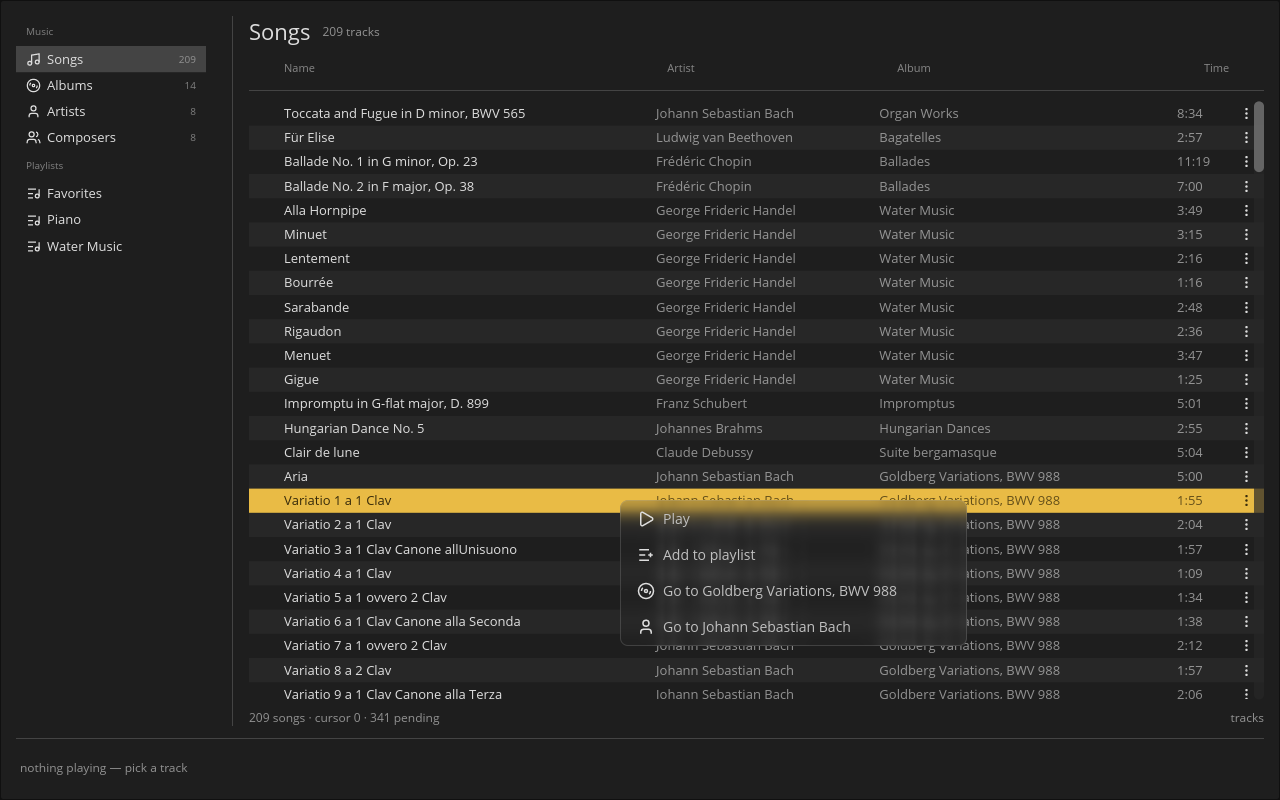
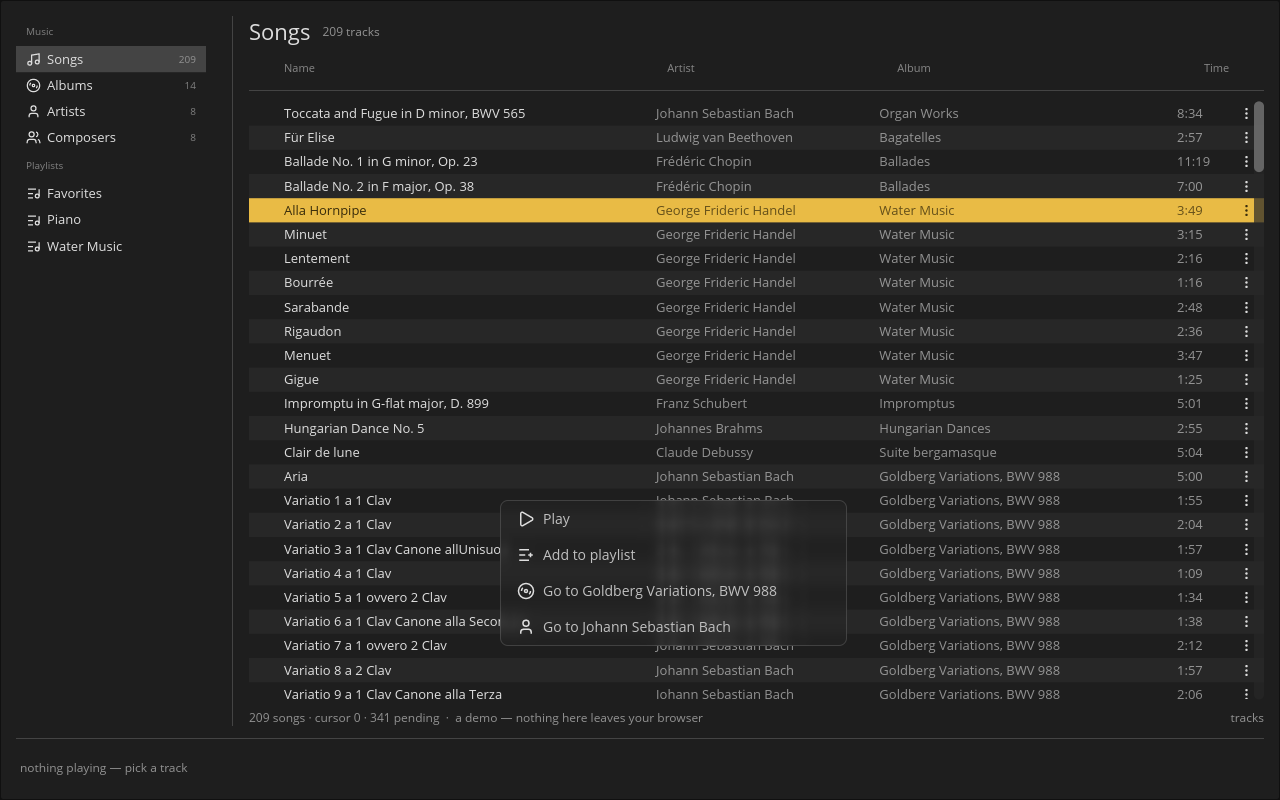
A row carries its own menu, because the cursor could not
Right-clicking a second row while a menu was open showed the first row's
entries. The trees were built from the cursor, and their overlay captures the
pointer outright — so moving to another row never reaches that row's
`on_enter`, and adding an `on_right_press` did not help either, because the
press does not reach it. Nothing pointer-derived can be right while their menu
is up.

So the wrapper moved off the list and onto each row: a row that carries its own
`context_menu` cannot be wrong about which row it is. `row_menu_trees` takes
the item now rather than reading the cursor, `MenuOpened` carries the id, and
`menu_lists_for` says which row the ticks are for so only that row's submenu
fills.

One thing it does not restore: the old menu landed the cursor on the row it was
about, and that is still not possible here for the same reason the bug existed
— the row never sees the event. The highlight can therefore be on one row while
the menu is about another. The menu is right; the highlight lags.

57 tests.

Claude-Session: https://claude.ai/code/session_01XcBd33WHuwVJf6eCw7CpeG

diff --git a/iced/src/main.rs b/iced/src/main.rs
@@ -493,7 +493,7 @@ enum Message {
     PickerAt(usize),
     /// libcosmic's menu just opened: read what the row under the cursor is
     /// already on, so its submenu has ticks.
-    MenuOpened,
+    MenuOpened(Id),
     /// Toggle one of them, from that submenu.
     MenuToggle(harken::Id<harken::tables::Playlist>, Id),
     /// The same, for the row menu.
@@ -1454,6 +1454,8 @@ struct App {
     /// otherwise be two hundred queries for a menu nobody opened, which is
     /// the cost `SUBMENU_DWELL` used to exist to avoid.
     menu_lists: Vec<(harken::Id<harken::tables::Playlist>, String, bool)>,
+    /// …and which row they are for, because every row now carries a menu.
+    menu_lists_for: Option<Id>,
     /// How big the window is, so a menu opened near an edge can open the
     /// other way. Seeded with what `main` asks for and kept in step by
     /// `window::resize_events`.
@@ -1979,6 +1981,7 @@ impl App {
             picker: None,
             menu: None,
             menu_lists: Vec::new(),
+            menu_lists_for: None,
             nav: Nav::Push,
             routed: None,
             cursor: cosmic::iced::Point::ORIGIN,
@@ -3249,12 +3252,11 @@ impl App {
                 }
                 Ok(())
             }
-            Message::MenuOpened => {
-                let at = self.at(Pane::Tracks);
+            Message::MenuOpened(id) => {
                 let Some(peer) = &mut self.peer else {
                     return Task::none();
                 };
-                let Some(item) = peer.rows().get(at).cloned() else {
+                let Some(item) = peer.rows().iter().find(|i| i.id == id).cloned() else {
                     return Task::none();
                 };
                 let mut store = peer.client.store();
@@ -3268,6 +3270,7 @@ impl App {
                     .into_iter()
                     .map(|p| (p.id, p.name, on.contains(&p.id)))
                     .collect();
+                self.menu_lists_for = Some(id);
                 drop(store);
                 Ok(())
             }
@@ -3766,10 +3769,11 @@ impl App {
     /// What their larger text and padding costs over `ENTRY_CHAR`'s estimate.
     const MENU_SLACK: f32 = 56.0;
 
-    fn row_menu_trees(&self) -> Option<(Vec<cosmic::widget::menu::Tree<Message>>, u16)> {
-        let peer = self.peer.as_ref()?;
-        let item = peer.rows().get(self.at(Pane::Tracks))?;
-
+    fn row_menu_trees(
+        &self,
+        peer: &Peer,
+        item: &Item,
+    ) -> (Vec<cosmic::widget::menu::Tree<Message>>, u16) {
         let menu = RowMenu {
             media: item.id,
             title: item.title.clone(),
@@ -3782,6 +3786,13 @@ impl App {
             width: 0.0,
         };
 
+        // The ticks are for *this* row, and are only in hand once its own menu
+        // has opened. A row whose menu has never been opened shows the
+        // playlists with none ticked for one frame and the real answer on the
+        // next, which is the cost of `playlists_of` wanting `&mut` where a
+        // view has `&self`.
+        let mine = self.menu_lists_for == Some(item.id);
+
         let entries = menu.entries();
         // `width_for` counts characters against `ENTRY_CHAR`, which was
         // measured against this program's own 13pt menu rows. `menu_button`
@@ -3791,7 +3802,7 @@ impl App {
         // a clipped second line, which is the failure being fixed.
         let width = (RowMenu::width_for(&entries) + Self::MENU_SLACK) as u16;
 
-        Some((
+        (
             entries
                 .into_iter()
                 .map(|entry| {
@@ -3836,6 +3847,7 @@ impl App {
                     let children: Vec<cosmic::widget::menu::Tree<Message>> = self
                         .menu_lists
                         .iter()
+                        .filter(|_| mine)
                         .map(|(list, name, on)| {
                             cosmic::widget::menu::Tree::from(Element::from(
                                 cosmic::widget::menu::menu_button(vec![
@@ -3854,7 +3866,7 @@ impl App {
                                         .into(),
                                     text(name.clone()).into(),
                                 ])
-                                .on_press(Message::MenuToggle(*list, item.id)),
+                                .on_press(Message::MenuToggle(*list, menu.media)),
                             ))
                         })
                         .collect();
@@ -3863,7 +3875,7 @@ impl App {
                 })
                 .collect(),
             width,
-        ))
+        )
     }
 
     fn view_menu(menu: &RowMenu, focused: bool) -> Element<'_, Message> {
@@ -4523,29 +4535,6 @@ impl App {
     }
 
     fn view_list(&self, peer: &'_ Peer) -> Element<'_, Message> {
-        // **The menu belongs to the track list, not to the window.** Wrapping
-        // the page meant a right click on the sidebar, the play bar or the
-        // status line opened a menu about a track — a menu is *about* the
-        // thing under the pointer, and everywhere else there is no track to be
-        // about. One wrapper here rather than one per row: their widget opens
-        // itself on a right click anywhere in its content, and which row that
-        // was is the cursor, which hovering already moves.
-        let listed = self.view_list_inner(peer);
-        match self.row_menu_trees() {
-            Some((trees, width)) => cosmic::widget::context_menu(listed, Some(trees))
-                // **Not their default 240.** At that width `Go to Goldberg
-                // Variations, BWV 988` wraps onto a second line inside a row
-                // whose height is fixed, and the second line is clipped —
-                // which is the bug this file documents one section up, met
-                // again in their widget.
-                .item_width(cosmic::widget::menu::ItemWidth::Uniform(width))
-                .on_open(Message::MenuOpened)
-                .into(),
-            None => listed,
-        }
-    }
-
-    fn view_list_inner(&self, peer: &'_ Peer) -> Element<'_, Message> {
         let playing = self.player.track().map(|t| t.id);
         let sounding = self.player.is_playing();
         // Only drawn while this pane has the keyboard. A dimmed cursor here
@@ -4672,17 +4661,49 @@ impl App {
                         // same width — and because an empty column is cheaper
                         // to keep than a layout to re-derive twice.
                         .push(container(icon::more(on_cursor)).padding([0, 6]));
+                    // **The menu belongs to the row, not to the list and not
+                    // to the cursor.** Built from the cursor it was wrong the
+                    // moment a menu was already open: their overlay captures
+                    // the pointer outright, so moving to a second row never
+                    // reaches that row's `on_enter` and never reaches its
+                    // right press either, and the cursor stayed where it was —
+                    // so right-clicking a second row opened a menu about the
+                    // first. A row that carries its own menu cannot be wrong
+                    // about which row it is.
+                    let (trees, width) = self.row_menu_trees(peer, item);
+                    let id = item.id;
+
                     col.push(
-                        // The background belongs to a container spanning the whole
-                        // width, not to a button around the title: a stripe that
-                        // stops where the text does is not a row.
-                        mouse_area(container(line).width(Length::Fill).padding([3, 4]).style(
-                            move |theme: &cosmic::Theme| {
-                                row_style(theme, on_cursor, focused, i % 2 == 1)
-                            },
-                        ))
-                        .on_enter(Message::HoverAt(i))
-                        .on_press(Message::PlayItem(item.id)),
+                        cosmic::widget::context_menu(
+                            // The background belongs to a container spanning the whole
+                            // width, not to a button around the title: a stripe that
+                            // stops where the text does is not a row.
+                            mouse_area(container(line).width(Length::Fill).padding([3, 4]).style(
+                                move |theme: &cosmic::Theme| {
+                                    row_style(theme, on_cursor, focused, i % 2 == 1)
+                                },
+                            ))
+                            .on_enter(Message::HoverAt(i))
+                            // **The right press lands the cursor too.** The menu's
+                            // entries are built for the row the cursor is on, and
+                            // the cursor is moved by `on_enter` — which an open
+                            // menu's own overlay is above, so moving from one row
+                            // to another *while a menu is up* never reaches the
+                            // row underneath. Right-clicking a second row then
+                            // opened a menu still about the first. Landing it here
+                            // is the same rule the old menu had: opening a menu
+                            // moves the selection to what it is about.
+                            .on_right_press(Message::HoverAt(i))
+                            .on_press(Message::PlayItem(item.id)),
+                            Some(trees),
+                        )
+                        // **Not their default 240.** At that width `Go to
+                        // Goldberg Variations, BWV 988` wraps onto a second
+                        // line inside a row whose height is fixed, and the
+                        // second line is clipped — which is the bug this file
+                        // documents one section up, met again in their widget.
+                        .item_width(cosmic::widget::menu::ItemWidth::Uniform(width))
+                        .on_open(Message::MenuOpened(id)),
                     )
                 });
 
